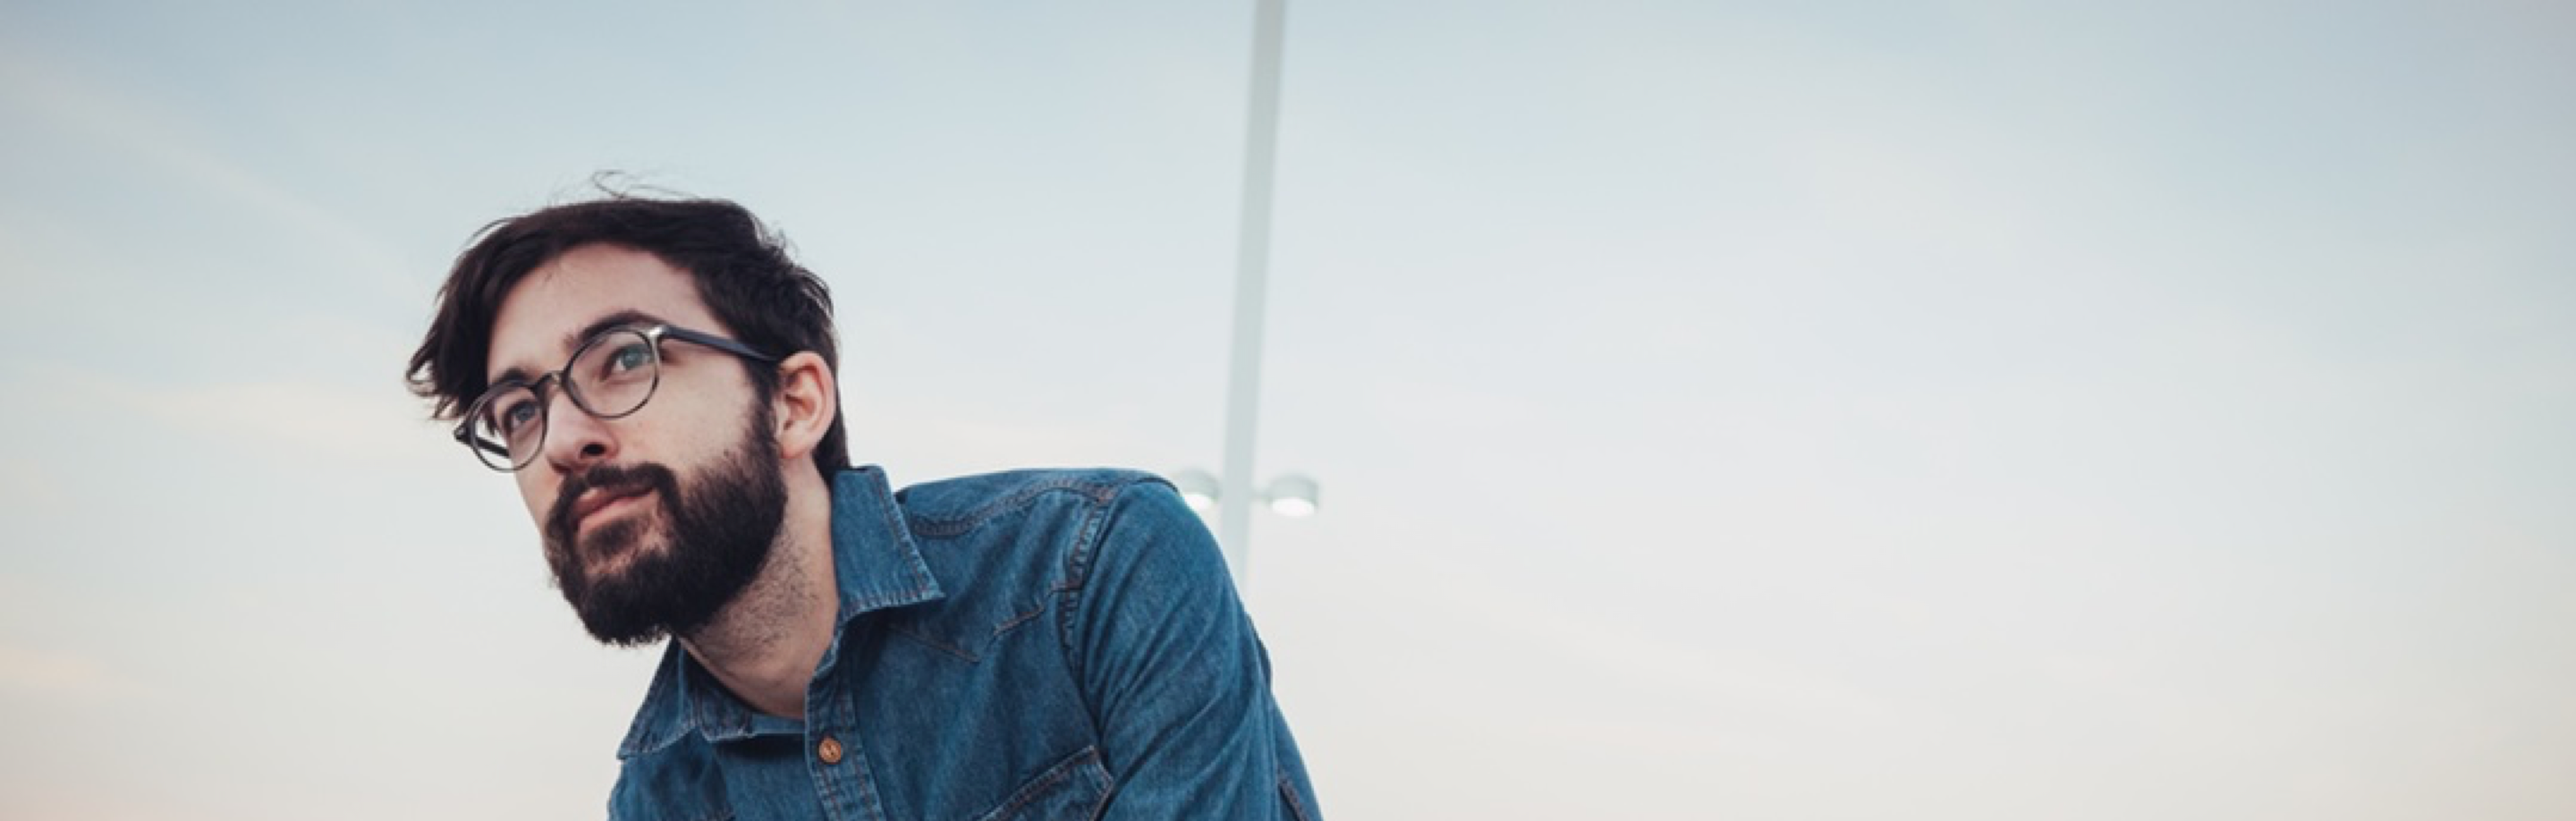
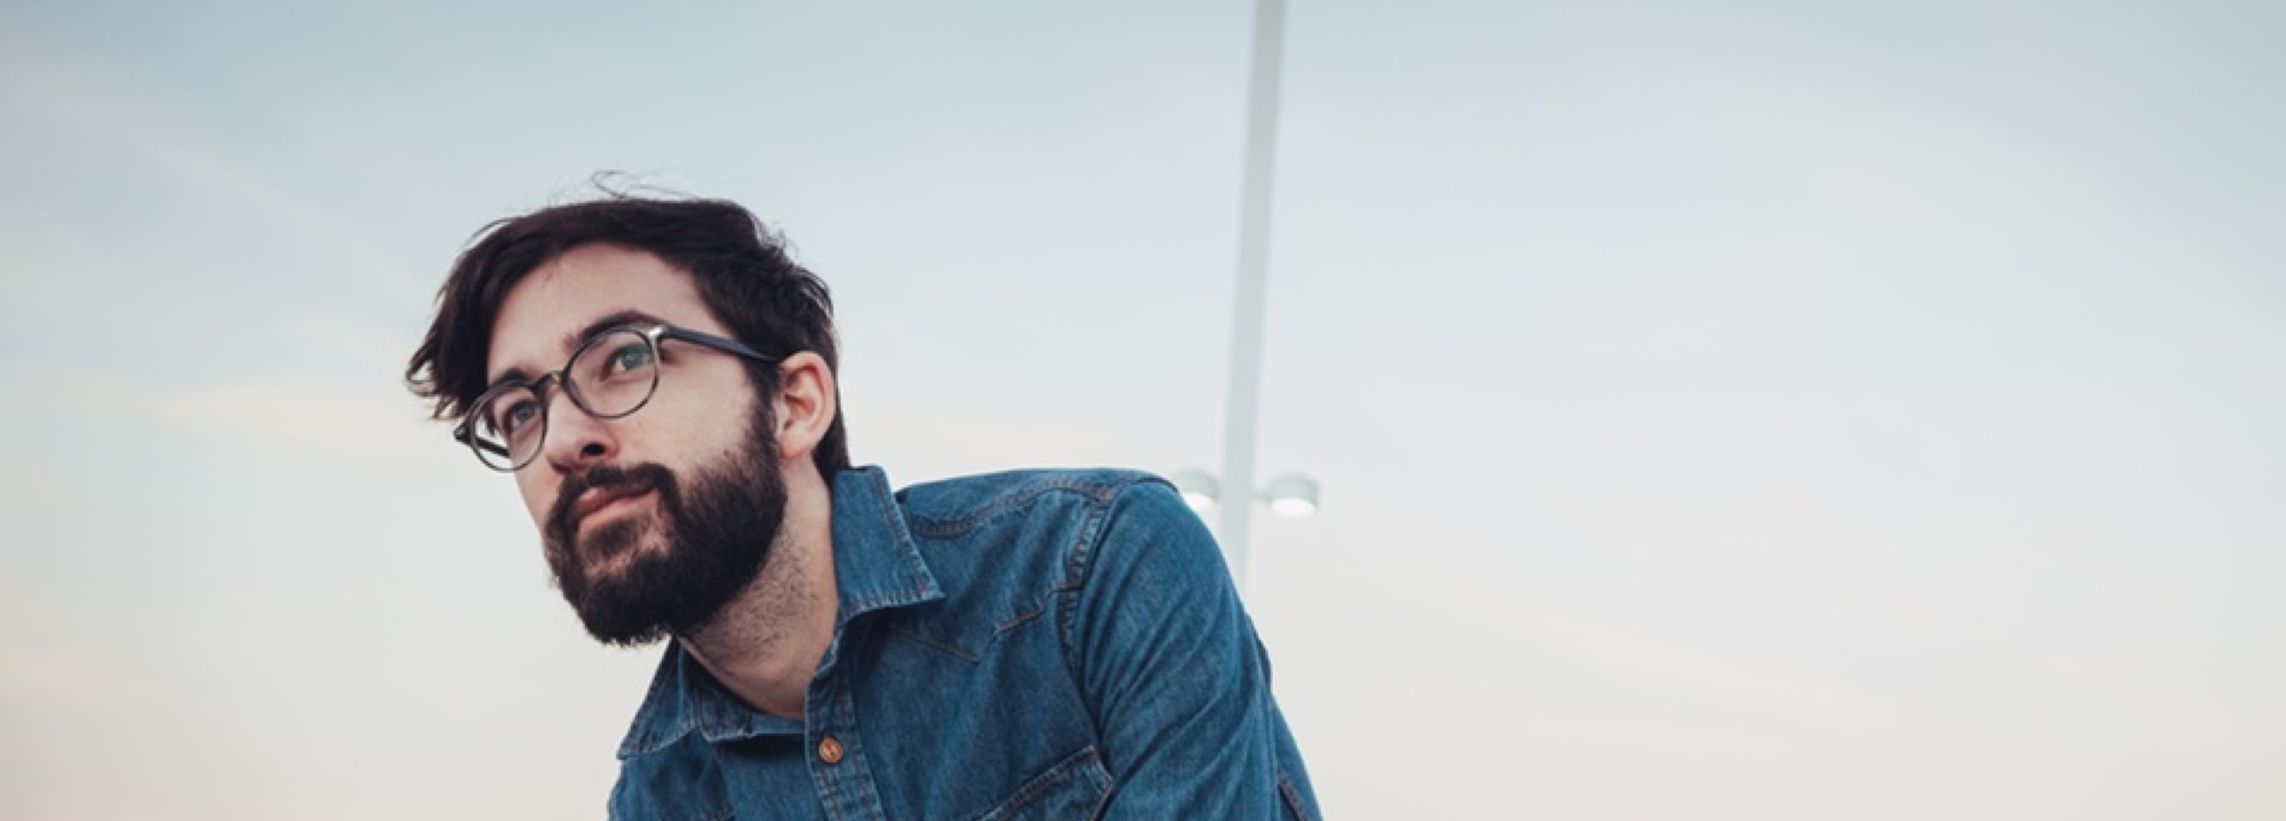
layout optimised for all devices

Changed region(s): [[0.1545, 0.2135, 0.5872, 1.0], [0.4636, 0.0, 0.5872, 0.0915], [0.5254, 0.4575, 0.5563, 0.549]]

diff --git a/resources/css/style.css b/resources/css/style.css
@@ -19,7 +19,7 @@ body {
 
 header {
   background-image: url("../images/glasses-bg.png");
-  height: 30rem;
+  height: 31rem;
   background-size: cover;
   background-position: center;
 }
@@ -103,6 +103,7 @@ nav span {
 
 .items img {
   width: 5rem;
+  margin-bottom: 1rem;
 
 }
 
@@ -144,4 +145,127 @@ footer {
 footer img {
   height: 1.5rem;
   margin: 4rem 1rem 4rem 4rem;
+}
+
+/* Tablet view Landscape*/
+
+@media only screen and (max-width: 1024px) {
+
+.motto h1{
+  padding: 0.75rem 4rem;
+  font-size: 1.33rem;
+  }
+
+.motto {
+  margin: 5rem 2rem 0 0;
+  }
+
+.navigation_bar {
+  margin: 0;
+}
+
+.container {
+  max-width: 100%;
+}
+
+header {
+    height: 22rem;
+  }
+
+}
+
+/* Tablet view Portrait */
+
+@media only screen and (max-width: 700px) {
+
+  header {
+      height: 18rem;
+    }
+
+    .big_screen {
+      display: none;
+    }
+
+    .small_screen {
+      display: flex;
+      align-items: center;
+      justify-content: center;
+    }
+}
+
+/* Mobile view */
+
+@media only screen and (max-width: 555px) {
+
+  header {
+    background-position: 20%;
+    height: 17rem;
+  }
+
+  .motto h1{
+    padding: 1rem 0;
+    font-size: 1rem;
+    text-align: center;
+    }
+
+  .motto {
+      width: 100%;
+      margin: 9rem 0;
+    }
+
+    .featured {
+      flex-direction: column;
+      align-items: center;
+      margin: 3rem auto;
+    }
+
+    .items {
+      height: auto;
+      margin: 0.77rem;
+    }
+
+    .about {
+      flex-direction: column;
+      align-items: center;
+      margin-bottom: 0;
+    }
+
+    .about_item {
+      width: auto;
+      margin: 0;
+    }
+
+    .about_item h2 {
+      width: auto;
+    }
+
+    .about_item p {
+      font-family: Helvetica;
+      font-size: 0.77rem;
+      padding: 1rem 0.5rem 4rem 0.5rem;
+    }
+
+    footer {
+      width: 100%;
+    }
+
+}
+
+@media only screen and (max-width: 415px) {
+  .logo span {
+    display: none;
+  }
+
+  footer p{
+    display: none;
+  }
+
+  footer {
+    justify-content: center;
+  }
+
+  footer img {
+    margin: 4rem 0;
+  }
+
 }

diff --git a/index.html b/index.html
@@ -36,9 +36,7 @@
       </div>
 
       <div class="motto">
-
           <h1>DON'T JUST LOOK, SEE.</h1>
-
       </div>
 
     </div>
@@ -50,24 +48,18 @@
     <div class="container featured">
 
       <div class="items paper">
-        <div class="img">
-          <img src="resources\images\paper-icon.png" />
-        </div>
+        <img src="resources\images\paper-icon.png" />
         <span>Comprehensive Exams</span>
 
       </div>
 
       <div class="items ruler">
-        <div class="img">
-          <img src="resources\images\ruler-icon.png" />
-        </div>
+        <img src="resources\images\ruler-icon.png" />
         <span>Comprehensive Exams</span>
       </div>
 
       <div class="items truck">
-        <div class="img">
-          <img src="resources\images\truck-icon.png" />
-        </div>
+        <img src="resources\images\truck-icon.png" />
         <span>Comprehensive Exams</span>
       </div>
 
